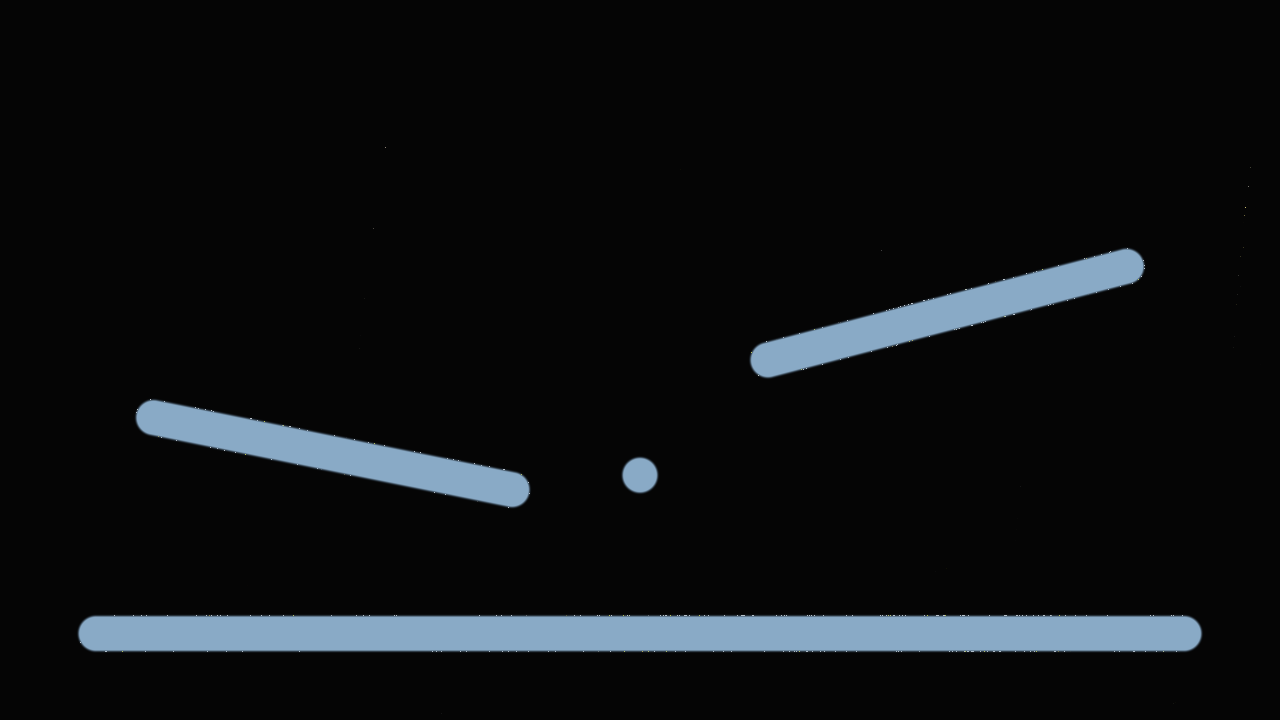
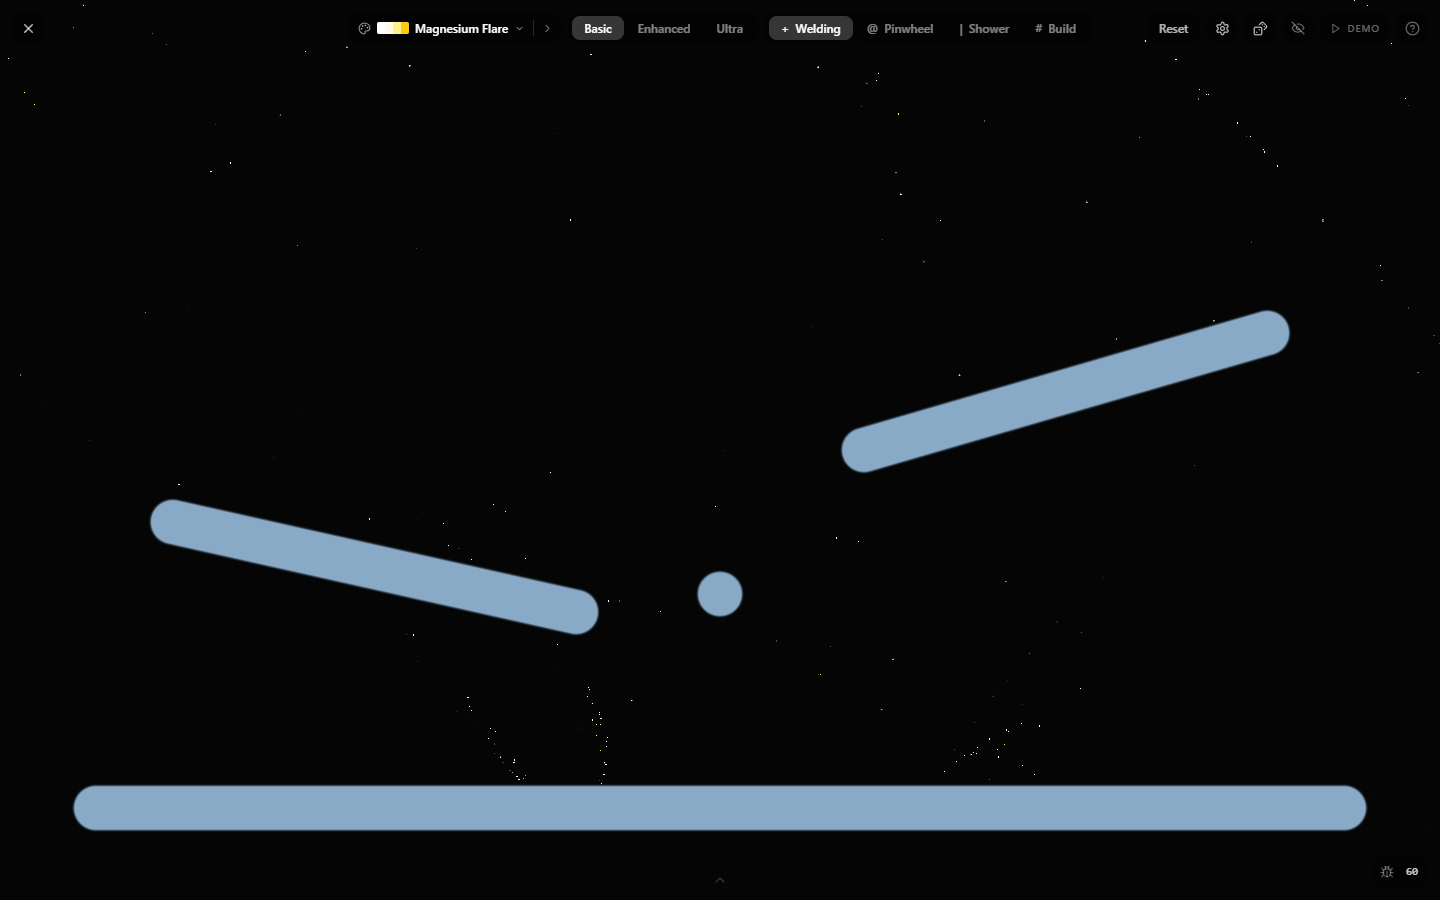
docs(audit): review sparks tier performance and parity

diff --git a/docs/audit/sparks-render-tiers-and-emissive-lighting-2026-07-17.md b/docs/audit/sparks-render-tiers-and-emissive-lighting-2026-07-17.md
@@ -1,0 +1,69 @@
+# Sparks Render-Tier and Emissive Lighting Audit — 2026-07-17
+
+## Verdict
+
+The Sparks tiers are now materially different render pipelines over the same compiled GPU simulation. Basic is a single point layer, Enhanced is a three-layer point/streak treatment, and Ultra adds half-resolution persistent trails plus reusable fullscreen emissive effects. The implementation is suitable for reuse by Fireworks and other particle scenes, but the light-shaft implementation is a deliberately inexpensive screen-space approximation rather than an occlusion-aware lighting model.
+
+## Delivered architecture
+
+| Area | Result | Evidence |
+|---|---|---|
+| Layered recipes | Pass | Compiled point, core, halo, and streak descriptors carry independent scale, length, intensity, alpha, blend, and archetype masks. Legacy booleans still normalize into layers. |
+| Basic | Pass | One additive point pass; no trails or post-process target. |
+| Enhanced | Pass | Halo, swept-streak, and core passes. Length and continuity feed the streak uniforms. No framebuffer history or fullscreen post effect. |
+| Ultra | Pass | Enhanced-style layers feed half-resolution trail history, then threshold bloom, environment light, shafts, and localized heat distortion composite the scene. |
+| Reusable post effects | Pass | Bloom and emissive lighting live in the WebGL2 renderer and are exposed through backend-neutral renderer options rather than Sparks-only shader branches. |
+| Settings | Pass | Existing keys remain intact. Threshold, radius, environment light, shafts, shaft length, and distortion are Ultra-only and have descriptions. Zero strengths skip their optional work. |
+| Preview safety | Pass | Preview values are capped; post effects use reduced resolution; capacity-aware render thinning lowers particle render density without changing simulation. |
+| GPU residency | Pass | Light positions come from the known active emitter. No particle readback or full-state CPU upload was added. |
+| Lifecycle | Pass | Resize, DPR, context rebuild, pooled targets, shader reuse, and disposal use the existing renderer resource lifecycle. |
+
+## Visual and performance acceptance
+
+Browser captures at 1440x900 with the same welding workload are committed as:
+
+- `docs/captures/particle/sparks-basic.png`
+- `docs/captures/particle/sparks-enhanced.png`
+- `docs/captures/particle/sparks-ultra.png`
+
+The live browser reported 60 FPS for all three captures and no page errors on the local reference machine. Basic renders crisp dots, Enhanced visibly produces velocity-scaled lines, and Ultra produces persistent luminous trajectories, a dominant-source glow, and environmental response. This is a qualitative browser gate, not a portable GPU timing certification.
+
+Cost scales in the intended order:
+
+- Basic: one particle layer and no intermediate target.
+- Enhanced: three particle layers and no fullscreen post process.
+- Ultra: three particle layers into half-resolution history, trail composite, and only the enabled emissive/post passes.
+
+At the saved 590k capacity, Ultra thins rendering toward roughly 196k submitted particles while preserving the full simulation. Enhanced targets roughly 393k rendered particles. This is important: visual LOD does not alter collisions, emission, lifetime, or particle state.
+
+## Correctness and compatibility
+
+- Tier selection changes rendering only; all tiers share one simulation resource and state ABI.
+- Existing size, alpha, lifetime, intensity, palette, length, continuity, trail fade, and bloom-strength settings remain wired.
+- Environmental lighting decays after input release, so a released pointer cannot leave a stale source.
+- Build elements are included in the captured scene before the post composite, allowing Ultra lighting/distortion to affect the whole environment coherently.
+- The focused suite passes 52 tests across compiler normalization, runtime bindings, post effects, renderer lifecycle, setting visibility, and Sparks contracts.
+
+## Remaining limitations
+
+1. Light shafts are radial screen-space scattering from one dominant source. They do not test scene geometry for occlusion and should not be described as volumetric lighting.
+2. Adaptive degradation is capacity/profile driven. The renderer does not yet use GPU timer-query feedback to change bloom iterations or effect resolution dynamically within a running Sparks scene.
+3. The WebGPU prototype understands the common particle semantics but does not yet execute this complete layered fullscreen post stack. WebGL2 is the accepted production path for these effects.
+4. Current captures validate distinction and stability, not pixel-exact output. Driver-specific golden-image tolerances are still absent.
+5. Bloom, illumination, shafts, and distortion share one compact post-process implementation. This is efficient, but a future render-graph compositor would offer finer pass scheduling and independent effect reuse.
+
+## Grades
+
+| Category | Grade | Rationale |
+|---|---|---|
+| Architecture | A- | Reusable semantic layers and renderer-owned effects; remaining monolithic post compositor. |
+| API design | A- | Typed descriptors, compatibility normalization, clean scene-facing controls. |
+| Rendering | A- | Clear tier separation and credible Ultra treatment; approximate shafts. |
+| Performance | B+ | Strong pass skipping, fractional targets, and render thinning; no live GPU-timer adaptation. |
+| Scalability | A- | Full simulation remains GPU-resident and render cost can thin independently. |
+| Maintainability | B+ | Shared infrastructure removes scene duplication, but embedded GLSL remains costly to evolve. |
+| Production readiness | B+ | Browser-stable and tested on WebGL2; broader device timing and context-loss browser matrices remain release work. |
+
+## Final assessment
+
+The original goal is met: Basic, Enhanced, and Ultra are no longer cosmetic labels over nearly identical rendering. The system is extensible enough to give Fireworks its own layer compositions without duplicating post shaders. No additional refactor pass is required before using these APIs in another scene. The next valuable hardening pass should be driven by measured cross-device GPU timings, specifically timer-query-based adaptive post-effect quality and mobile validation.